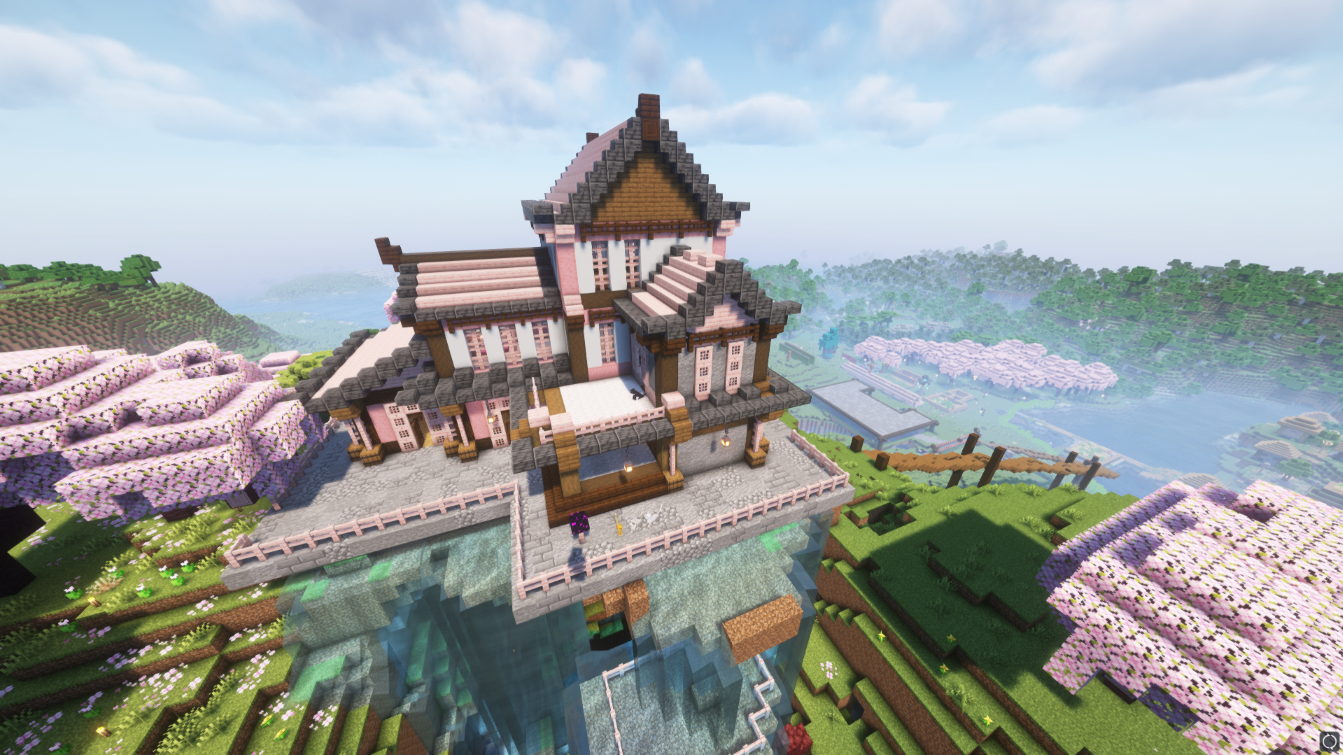
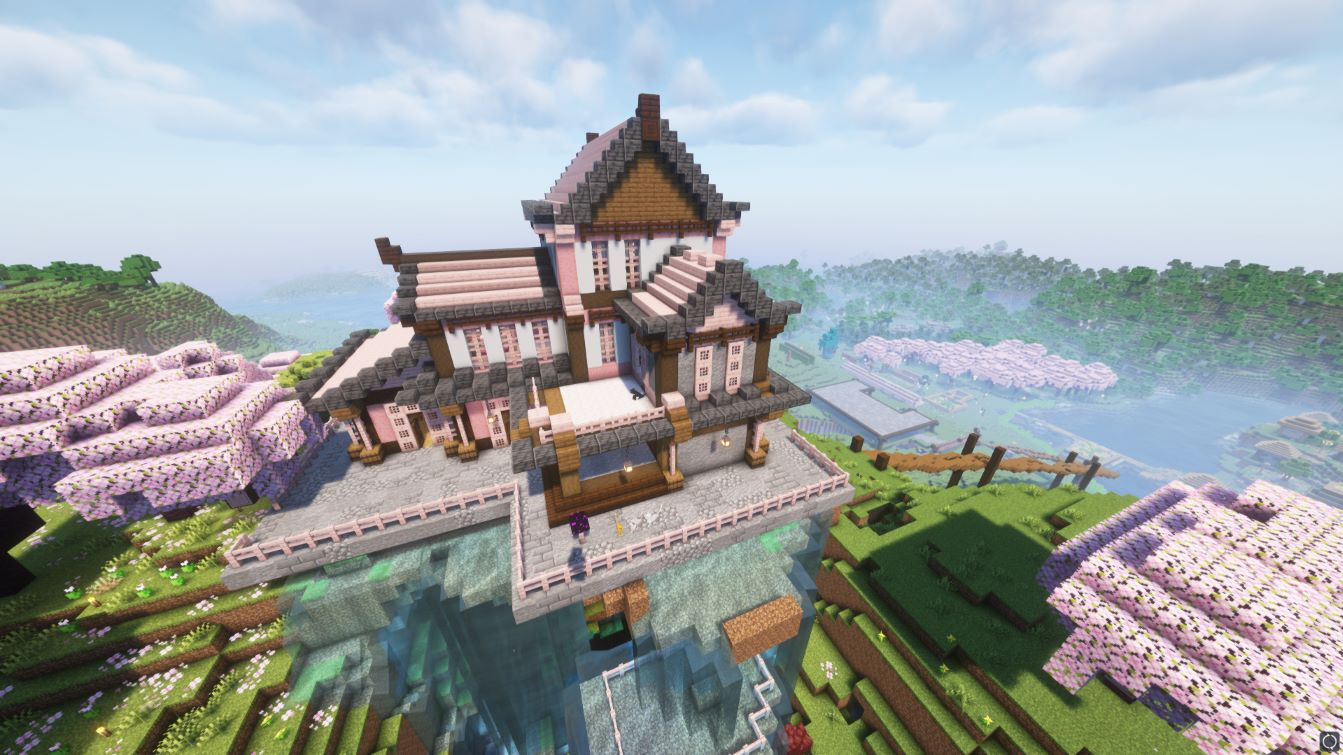
gyubee and fixed slides to png

diff --git a/index.html b/index.html
@@ -676,34 +676,34 @@
 
 <div class="hero">
   <div class="slide active">
-    <img src="images/slides/1.jpg" alt="">
+    <img src="images/slides/1.png" alt="">
   </div>
   <div class="slide">
-    <img src="images/slides/2.jpg" alt="">
+    <img src="images/slides/2.png" alt="">
   </div>
   <div class="slide active">
-    <img src="images/slides/3.jpg" alt="">
+    <img src="images/slides/3.png" alt="">
   </div>
   <div class="slide">
-    <img src="images/slides/4.jpg" alt="">
+    <img src="images/slides/4.png" alt="">
   </div>
   <div class="slide active">
     <img src="images/slides/5.png" alt="">
   </div>
   <div class="slide">
-    <img src="images/slides/6.jpg" alt="">
+    <img src="images/slides/6.png" alt="">
   </div>
   <div class="slide active">
-    <img src="images/slides/7.jpg" alt="">
+    <img src="images/slides/7.png" alt="">
   </div>
   <div class="slide">
-    <img src="images/slides/8.jpg" alt="">
+    <img src="images/slides/8.png" alt="">
   </div>
   <div class="hero-overlay"></div>
   <div class="hero-content">
     <div class="hero-tag">Engineering Portfolio</div>
     <h1 class="fade-up delay-1">Hi, I'm <span>Daniel</span></h1>
-    <p class="fade-up delay-2">Mechanical Engineer - It’s not about whether I can or not. I’m gonna do it because I want to.</p>
+    <p class="fade-up delay-2">Mechanical Engineer - Dolphin of the Land</p>
     <div class="hero-cta fade-up delay-3">
       <a href="#projects" class="btn btn-primary">View Projects</a>
       <a href="#contact" class="btn btn-ghost">Get in Touch</a>
@@ -801,6 +801,19 @@
         </div>
         <div class="company">Multifunctional Composite Manufacturing Lab</div>
         <p>Conducted research and testing on composite materials for the use in lightweight exoskeleton applications.</p>
+      </div>
+    </div>
+    <div class="exp-item">
+      <div class="exp-img">
+        <img src="images/gyubee.png" alt="Multifunctional Composite Manufacturing Lab">
+      </div>
+      <div class="exp-text">
+        <div class="exp-header">
+          <span class="role">Server</span>
+          <span class="period">May 2026 – Current</span>
+        </div>
+        <div class="company">Gyubee Japanese Grill</div>
+        <p>Managed end-to-end table service, efficient dining room turn-over, and meticulous closing sanitation procedures to maintain high service standards and health compliance in a high-volume restaurant.</p>
       </div>
     </div>
   </div>
